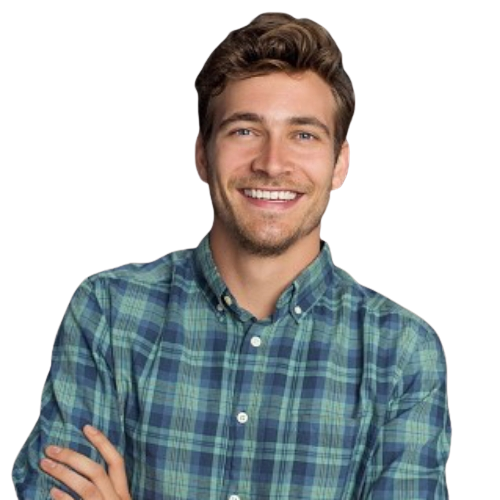
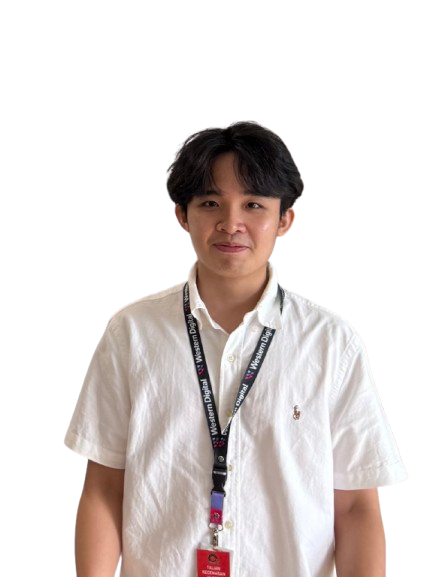
edited skills section

diff --git a/index.html b/index.html
@@ -95,7 +95,7 @@
                         <a href="https://github.com/bentez7" target="_blank" class="home__social-icon">
                             <i class="uil uil-github-alt"></i>
                         </a>
-                        <a href="https://www.linkedin.com/in/bentez7" target="_blank" rel="noopener noreferrer">
+                        <a href="https://www.linkedin.com/in/bentez7" target="_blank" class="home__social-icon" rel="noopener noreferrer">
                             <i class="uil uil-linkedin"></i></a>
                         </a>
                     </div>
@@ -115,7 +115,7 @@
                                 129.362C2.45775 97.8511 -7.48481 59.1033 6.67581 34.5279C20.9871 10.1032 59.7028 
                                 -0.149132 97.9666 0.00163737C136.23 0.303176 174.193 10.857 190.312 36.4879Z" />
 
-                                <image class="home__blob-img" x="12" y="18" href="assets/img/perfil.png" />
+                                <image class="home__blob-img" x="-2" y="-42" href="assets/img/perfil.png" />
                             </g>
                         </svg>
                     </div>
@@ -164,12 +164,12 @@
 
                     <div class="about_info">
                         <div>
-                            <span class="about__info-title">02+</span>
+                            <span class="about__info-title">05+</span>
                             <span class="about__info-name">Years <br />
                                 experience</span>
                         </div>
                         <div>
-                            <span class="about__info-title">20+</span>
+                            <span class="about__info-title">10+</span>
                             <span class="about__info-name">Completed <br />
                                 project</span>
                         </div>
@@ -203,7 +203,7 @@
 
                             <div>
                                 <h1 class="skills__title">Frontend developer</h1>
-                                <span class="skills__subtitle">More then 2 years</span>
+                                <span class="skills__subtitle">More then 4 years</span>
                             </div>
 
                             <i class="uil uil-angle-down skills__arrow"></i>
@@ -213,21 +213,11 @@
                             <div class="skills__data">
                                 <div class="skills__titles">
                                     <h3 class="skills__name"><img src="/assets/img/html.png" class="skills__logo"
-                                            width="25px" alt=""> HTML</h3>
+                                            width="25px" alt=""> HTML & CSS</h3>
                                     <span class="skills__number">90%</span>
                                 </div>
                                 <div class="skills__bar">
                                     <span class="skills__percentage skills__html"></span>
-                                </div>
-                            </div>
-                            <div class="skills__data">
-                                <div class="skills__titles">
-                                    <h3 class="skills__name"><img src="/assets/img/css.png" class="skills__logo"
-                                            width="20px" alt=""> CSS</h3>
-                                    <span class="skills__number">70%</span>
-                                </div>
-                                <div class="skills__bar">
-                                    <span class="skills__percentage skills__css"></span>
                                 </div>
                             </div>
                             <div class="skills__data">
@@ -241,6 +231,7 @@
                                     <span class="skills__percentage skills__js"></span>
                                 </div>
                             </div>
+                            
                             <div class="skills__data">
                                 <div class="skills__titles">
                                     <h3 class="skills__name"><img src="/assets/img/react.png" class="skills__logo"
@@ -261,7 +252,7 @@
 
                             <div>
                                 <h1 class="skills__title">Backend developer</h1>
-                                <span class="skills__subtitle">More then 1 years</span>
+                                <span class="skills__subtitle">More then 2 years</span>
                             </div>
 
                             <i class="uil uil-angle-down skills__arrow"></i>
@@ -271,8 +262,18 @@
                             <div class="skills__data">
                                 <div class="skills__titles">
                                     <h3 class="skills__name"><img src="/assets/img/php.png" class="skills__logo"
-                                            width="20px" alt=""> PHP</h3>
+                                            width="20px" alt=""> Java</h3>
                                     <span class="skills__number">90%</span>
+                                </div>
+                                <div class="skills__bar">
+                                    <span class="skills__percentage skills__php"></span>
+                                </div>
+                            </div>
+                            <div class="skills__data">
+                                <div class="skills__titles">
+                                    <h3 class="skills__name"><img src="/assets/img/php.png" class="skills__logo"
+                                            width="20px" alt=""> C#</h3>
+                                    <span class="skills__number">50%</span>
                                 </div>
                                 <div class="skills__bar">
                                     <span class="skills__percentage skills__php"></span>
@@ -282,7 +283,7 @@
                                 <div class="skills__titles">
                                     <h3 class="skills__name"><img src="/assets/img/sql.png" class="skills__logo"
                                             width="20px" alt=""> MySQL</h3>
-                                    <span class="skills__number">72%</span>
+                                    <span class="skills__number">60%</span>
                                 </div>
                                 <div class="skills__bar">
                                     <span class="skills__percentage skills__mysql"></span>
@@ -292,11 +293,20 @@
                                 <div class="skills__titles">
                                     <h3 class="skills__name"><img src="/assets/img/node.png" class="skills__logo"
                                             width="20px" alt=""> Node Js</h3>
-
                                     <span class="skills__number">58%</span>
                                 </div>
                                 <div class="skills__bar">
                                     <span class="skills__percentage skills__node"></span>
+                                </div>
+                            </div>
+                            <div class="skills__data">
+                                <div class="skills__titles">
+                                    <h3 class="skills__name"><img src="/assets/img/sql.png" class="skills__logo"
+                                            width="20px" alt=""> C</h3>
+                                    <span class="skills__number">60%</span>
+                                </div>
+                                <div class="skills__bar">
+                                    <span class="skills__percentage skills__mysql"></span>
                                 </div>
                             </div>
                             <div class="skills__data">
@@ -777,7 +787,7 @@
                         <i class="uil uil-github-alt"></i></a>
                     </a>
 
-                    <a href="https://www.linkedin.com/in/bentez7" target="_blank" rel="noopener noreferrer">
+                    <a href="https://www.linkedin.com/in/bentez7" target="_blank" class="home__social-icon" rel="noopener noreferrer">
                         <i class="uil uil-linkedin"></i></a>
                     </a>
                 </div>

diff --git a/assets/css/style.css b/assets/css/style.css
@@ -312,7 +312,7 @@ img {
 }
 
 .home__blob-img {
-  width: 170px;
+  width: 200px;
 }
 
 .home__data {
@@ -1094,7 +1094,6 @@ footer .footer__social a:hover {
   }
 
   .change-theme {
-    margin: 0;
   }
 
   .home__container {
